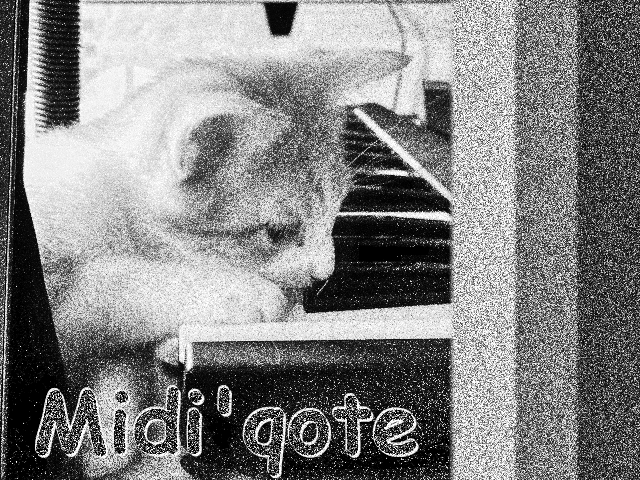
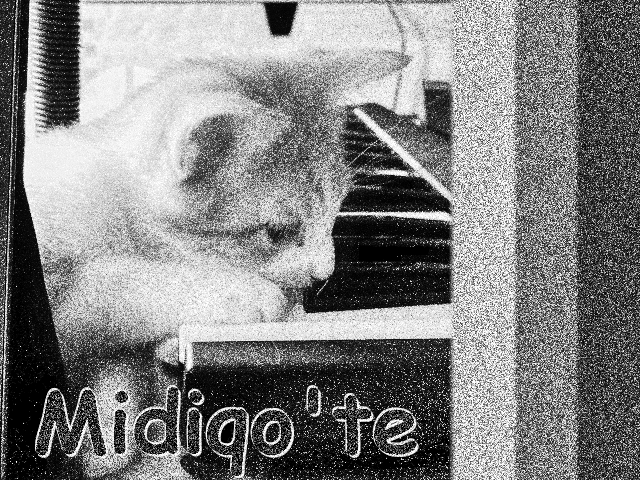
wired up rockband controller option, hid unimplemented options, fixed bg image

Changed region(s): [[0.0625, 0.7812, 0.6562, 1.0]]

diff --git a/midiqote.py b/midiqote.py
@@ -8,14 +8,6 @@ import wx # via package wxPython
 shell = win32com.client.Dispatch("WScript.Shell")
 
 
-device_root = 48
-device_span = 25
-
-all_symbols = string.ascii_lowercase + string.digits + "."
-bass = all_symbols[:device_span]
-trebble = all_symbols[12:][:device_span]
-
-
 NOTE_ON = 0x9
 NOTE_OFF = 0x8
 POLYPHONIC_PRESSURE = 0xA
@@ -24,6 +16,9 @@ PROGRAM_CHANGE = 0xC
 CHANNEL_PRESSURE = 0xD
 PITCH_BEND = 0xE
 SYSETM = 0xF
+MIDDLE_C = 60
+ROOT_NOTE = 48
+SYMBOLS = string.ascii_lowercase + string.digits + "."
 
 
 class midiqote:
@@ -31,7 +26,11 @@ class midiqote:
 		self.use_trebble = True
 		self.current_port = -1
 		self.midiin = rtmidi.MidiIn()
-		self.midiin.set_callback(self.midi_event)
+		self.use_ctrl_octave = False
+		self.use_prog_octave = False
+		self.use_rock_octave = False
+		self.transpose = 0
+		self.octave = 0
 
 	def midi_event(self, event, unused):
 		packet, delta = event
@@ -39,25 +38,38 @@ class midiqote:
 		message = status >> 4
 		channel = status & 0xF
 		if message is NOTE_ON:
-			notemap = trebble if self.use_trebble else bass
-			note = packet[1]
-			symbol = notemap[note-device_root]
-			shell.SendKeys(symbol, 0)
-		elif message is SYSETM:
-			self.use_trebble = (channel & 4) == 0
+			note = packet[1] + self.transpose + self.octave
+			if note >= ROOT_NOTE and note <= (ROOT_NOTE + 37):
+				symbol = SYMBOLS[note-ROOT_NOTE]
+				shell.SendKeys(symbol, 0)
+		elif self.use_rock_octave and message is SYSETM:
+			self.octave = 0 if (channel & 4) == 4 else 12
 
-	def device_changed(self, event):
+	def device_changed(self, event, override = None):
 		old_port = self.current_port
-		self.current_port = event.GetSelection()
+		self.current_port = override if override is not None else event.GetSelection()
 		if self.current_port != old_port:
 			if old_port != -1:
 				self.midiin.close_port()
 			try:
 				self.midiin.open_port(self.current_port)
+				self.midiin.set_callback(self.midi_event)
 			except rtmidi._rtmidi.SystemError:
 				self.current_port = -1
 				event.GetEventObject().SetSelection(-1)
 				wx.MessageBox("Bard Error:\nUnable to open MIDI input :(", "Midiqo'te", wx.OK | wx.ICON_ERROR)
+
+	def set_ctrl_octave(self, event):
+		self.use_ctrl_octave = event.IsChecked()
+
+	def set_prog_octave(self, event):
+		self.use_prog_octave = event.IsChecked()
+
+	def set_rock_octave(self, event):
+		self.use_rock_octave = event.IsChecked()
+
+	def set_transpose(self, event):
+		self.transpose = MIDDLE_C - event.GetInt()
 
 	def shutdown(self):
 		if self.current_port != -1:
@@ -74,6 +86,7 @@ class fancy_panel(wx.Panel):
 	def repaint(self, event):
 		dc = wx.PaintDC(self)
 		dc.DrawBitmap(self.bg_img, 0, -39)
+
 
 if __name__ == "__main__":
 	bard = midiqote()
@@ -97,20 +110,25 @@ if __name__ == "__main__":
 	device_picker = wx.ComboBox(panel, choices=midi_inputs, style=wx.CB_DROPDOWN|wx.CB_READONLY)
 	device_picker.Bind(wx.EVT_COMBOBOX, bard.device_changed)
 	device_picker.SetSelection(0)
+	bard.device_changed(None, 0)
 	vbox.Add(device_picker, border=100, flag=wx.TOP)
 
-	midi_ctrl_checkbox = wx.CheckBox(panel, label="All MIDI control changes\nas octave up/down.", style=wx.CHK_2STATE)
-	vbox.Add(midi_ctrl_checkbox, border=10, flag=wx.TOP)
+	#midi_ctrl_checkbox = wx.CheckBox(panel, label="All MIDI control toggles\nas octave up/down.", style=wx.CHK_2STATE)
+	#midi_ctrl_checkbox.Bind(wx.EVT_CHECKBOX, bard.set_ctrl_octave)
+	#vbox.Add(midi_ctrl_checkbox, border=10, flag=wx.TOP)
 
-	midi_prog_checkbox = wx.CheckBox(panel, label="All MIDI program changes\nas octave up/down.", style=wx.CHK_2STATE)
-	vbox.Add(midi_prog_checkbox, border=10, flag=wx.TOP)
+	#midi_prog_checkbox = wx.CheckBox(panel, label="All MIDI program toggles\nas octave up/down.", style=wx.CHK_2STATE)
+	#midi_prog_checkbox.Bind(wx.EVT_CHECKBOX, bard.set_prog_octave)
+	#vbox.Add(midi_prog_checkbox, border=10, flag=wx.TOP)
 
-	rockband_checkbox = wx.CheckBox(panel, label="Rockband MIDI controller\nstart/select as octave up/down.", style=wx.CHK_2STATE)
+	rockband_checkbox = wx.CheckBox(panel, label="Rockband MIDI controller\nstart/select as low/high octave.", style=wx.CHK_2STATE)
+	rockband_checkbox.Bind(wx.EVT_CHECKBOX, bard.set_rock_octave)
 	vbox.Add(rockband_checkbox, border=10, flag=wx.TOP)
 
 	middle_c_hbox = wx.BoxSizer(wx.HORIZONTAL)
 	vbox.Add(middle_c_hbox, border=10, flag=wx.TOP)
 	middle_c = wx.SpinCtrl(panel, min=1, max=127, initial=60)
+	middle_c.Bind(wx.EVT_SPINCTRL, bard.set_transpose)
 	middle_c_hbox.Add(middle_c)
 
 	middle_c_label = wx.StaticText(panel, style=wx.ALIGN_LEFT, label="Middle C")
